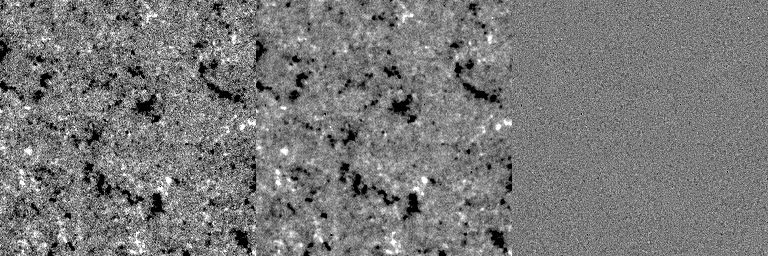
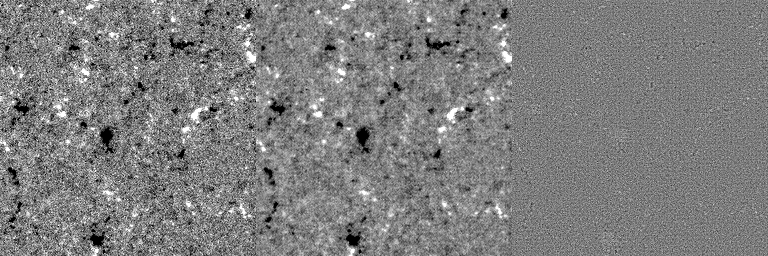
modify

diff --git a/data/analyze_data.py b/data/analyze_data.py
@@ -1,6 +1,7 @@
 import matplotlib.pyplot as plt
 import numpy as np
 from scipy.optimize import curve_fit
+from matplotlib.gridspec import GridSpec
 
 
 def func(x, a, b, c):
@@ -88,7 +89,7 @@ def multiplot(data, minmax):
 
 
 def reader(f, proc_nan=False):
-    data = np.load(f)["data"]
+    data = np.load(f)["data"][2048-1024:2048+1024, 2048-1024:2048+1024]
     if proc_nan == True :
         data[np.isnan(data)] = 0.
     return data
@@ -97,25 +98,80 @@ def analyze_los_45(f):
     data = reader(f)
 
 
-def imshow(data, vmin, vmax):
+def imshow(data, vmin, vmax, title):
     plt.imshow(data, vmin=vmin, vmax=vmax, cmap="gray")
-    plt.show()
+    plt.title(title)
+    #plt.show()
+
+def histshow(x, hist, title):
+    plt.plot(x, hist)
+    plt.title(title)
+    #plt.show()
+
+
+def custom_plot(data, hist, x, title, vmin, vmax):
+    fig = plt.figure(figsize=(20, 8))
+    plt.suptitle(title)
+    gs = GridSpec(1, 3, figure=fig)
+    ax1 = fig.add_subplot(gs[0,0])
+    ax2 = fig.add_subplot(gs[0,1:])
+    ax1.imshow(data, vmin=vmin, vmax=vmax, cmap="gray")
+    ax1.set_title("Image")
+    ax2.plot(x, hist)
+    ax2.set_title("Histogram")
+    plt.tight_layout()
+
 
 def analyze_inclination(f, proc_nan=False):
     data = reader(f, proc_nan=proc_nan)
-    return data
+    x = np.linspace(0, 180, 180)
+    hist = np.histogram(data.flatten(), bins=np.linspace(0, 180, 181))
+    custom_plot(data, hist[0], x, title="Inclination", vmin=0, vmax=180)
+    plt.savefig("inclination.png", dpi=200)
+    plt.close()
+    return data, hist[0], x
 
 def analyze_azimuth(f, proc_nan=False):
     data = reader(f, proc_nan=proc_nan)
-    return data
+    x = np.linspace(0, 180, 180)
+    hist = np.histogram(data.flatten(), bins=np.linspace(0, 180, 181))
+    custom_plot(data, hist[0], x, title="Azimuth", vmin=0, vmax=180)
+    plt.savefig("azimuth.png", dpi=200)
+    plt.close()
+    return data, hist[0], x
 
 def analyze_disambig(f, proc_nan=False):
     data = reader(f, proc_nan=proc_nan)
-    return data
+    x = np.linspace(0, 10, 10)
+    hist = np.histogram(data.flatten(), bins=np.linspace(0, 10, 11))
+    custom_plot(data, hist[0], x, title="Disambig", vmin=0, vmax=10)
+    plt.savefig("disambig.png", dpi=200)
+    plt.close()
+    return data, hist[0], x
 
 def analyze_field(f, proc_nan=False):
     data = reader(f, proc_nan=proc_nan)
-    return data
+    x = np.linspace(0, 3000, 3000)
+    hist = np.histogram(data.flatten(), bins=np.linspace(0, 3000, 3001))
+    custom_plot(data, hist[0], x, title="Field", vmin=0, vmax=3000)
+    plt.savefig("field.png", dpi=200)
+    plt.close()
+    return data, hist[0], x
+
+
+
+
+class FitGaussian(object):
+    def __init__(self, minmax=100):
+        self.minmax=minmax
+    def __call__(self, data):
+        tmp = np.histogram(data.flatten(), bins=np.linspace(-self.minmax, self.minmax, self.minmax+1))
+        x = np.linspace(-self.minmax+0.5, self.minmax-0.5, self.minmax)
+        popt, _ = curve_fit(func, x, tmp[0])
+        amp = popt[0]
+        loc = popt[1]
+        scale = abs(popt[2])
+        return (amp, loc, scale), tmp
 
 if __name__ == "__main__" :
     from glob import glob
@@ -129,31 +185,35 @@ if __name__ == "__main__" :
     f_disambig = "hmi.2011-01-01-00-00-00.disambig.npz"
     f_field = "hmi.2011-01-01-00-00-00.field.npz"
 
-    data = analyze_inclination(f_inclination)
+    data, hist, x = analyze_inclination(f_inclination)
     vmin = np.nanmin(data)
     vmax = np.nanmax(data)
     print(vmin, vmax)
-    imshow(data, vmin=vmin, vmax=vmax)
 
-    data = analyze_azimuth(f_azimuth)
+    data, hist, x = analyze_azimuth(f_azimuth)
     vmin = np.nanmin(data)
     vmax = np.nanmax(data)
     print(vmin, vmax)
-    imshow(data, vmin=vmin, vmax=vmax)
 
-    data = analyze_disambig(f_disambig)
+    data, hist, x = analyze_disambig(f_disambig)
+    vmin = np.nanmin(data)
+    vmax = np.nanmax(data)
+    print(vmin, vmax)    
+
+    data, hist, x = analyze_field(f_field)
     vmin = np.nanmin(data)
     vmax = np.nanmax(data)
     print(vmin, vmax)
-    imshow(data, vmin=vmin, vmax=vmax)
-
-    data = analyze_field(f_field)
-    vmin = np.nanmin(data)
-    vmax = np.nanmax(data)
-    print(vmin, vmax)
-    imshow(data, vmin=vmin, vmax=vmax)
 
 
+    # inclination = np.load(f_inclination)["data"][2048-1024:2048+1024, 2048-1024:2048+1024]
+    # field = np.load(f_field)["data"][2048-1024:2048+1024, 2048-1024:2048+1024]
+
+    # x = np.linspace(0, 180, 180)
+    # tmp = inclination[np.abs(field) > 1000]
+    # hist = np.histogram(tmp.flatten(), bins=np.linspace(0, 180, 181))
+    # plt.plot(x, hist[0])
+    # plt.show()
 
 
     # sav = readsav(h)
